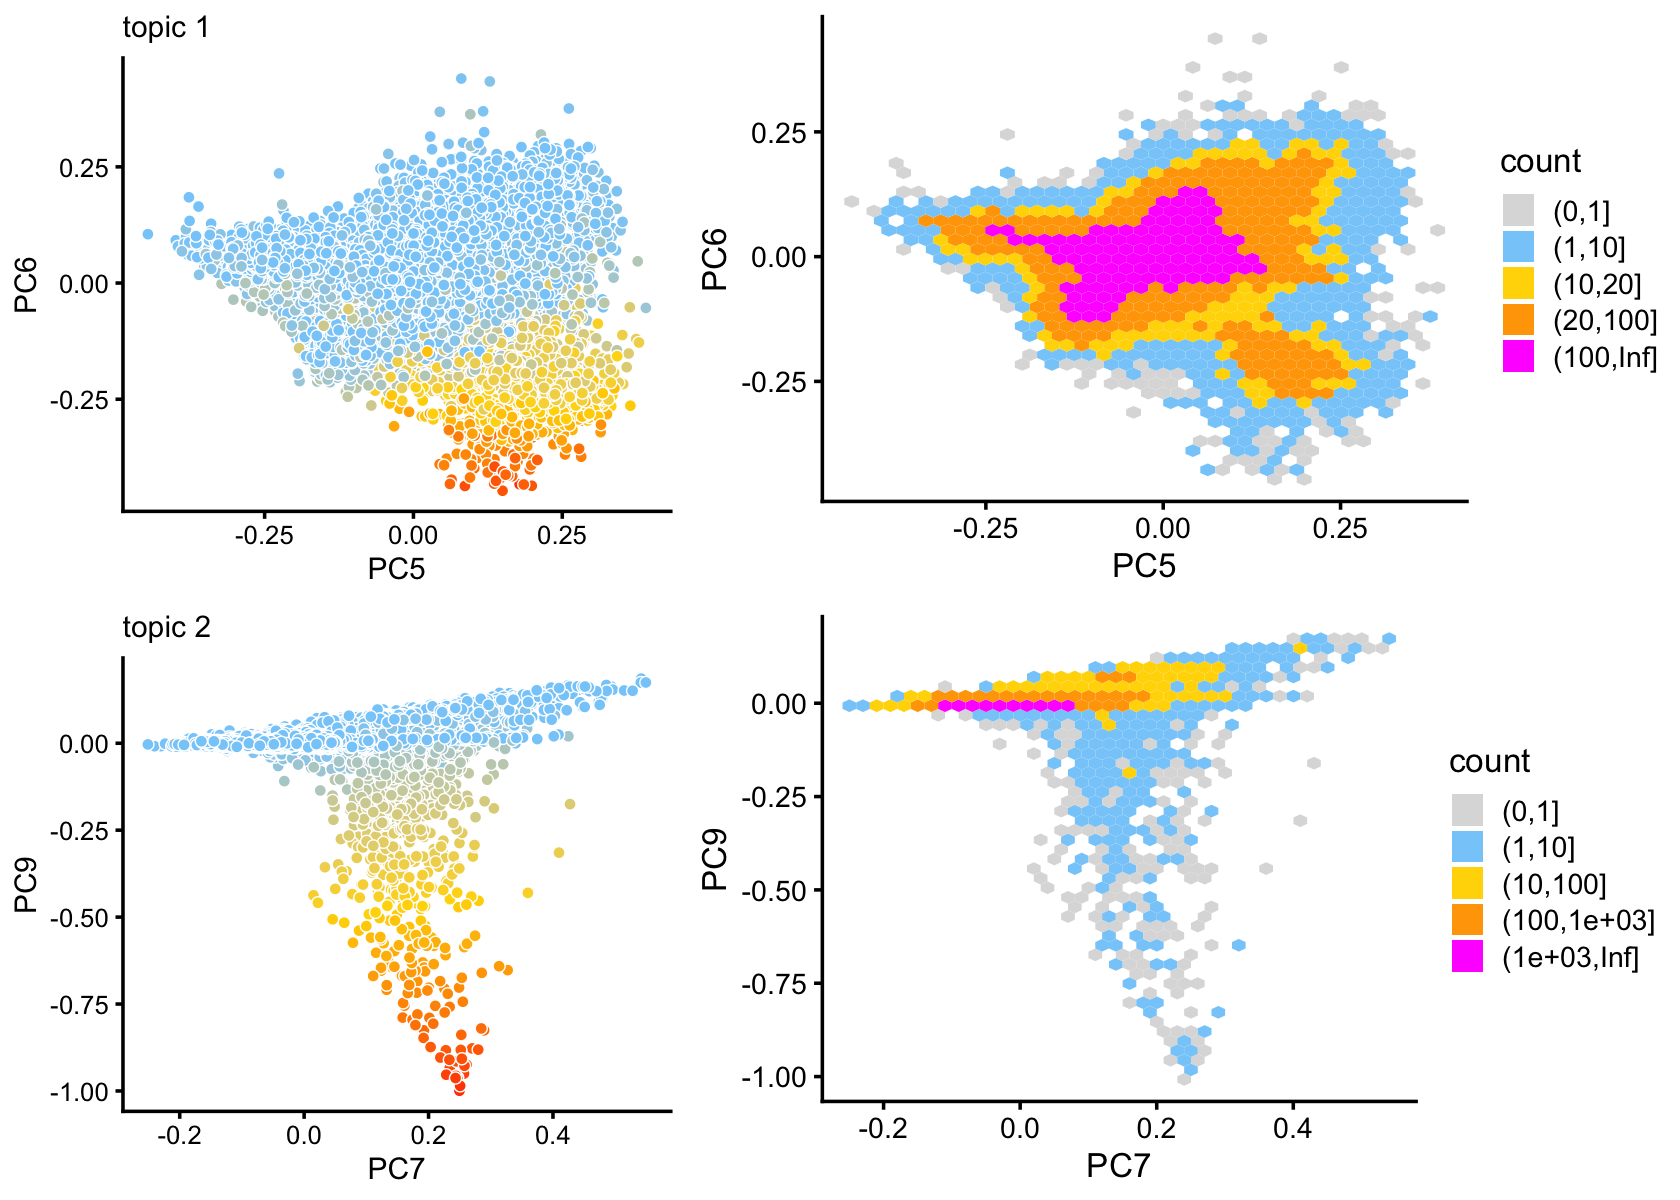
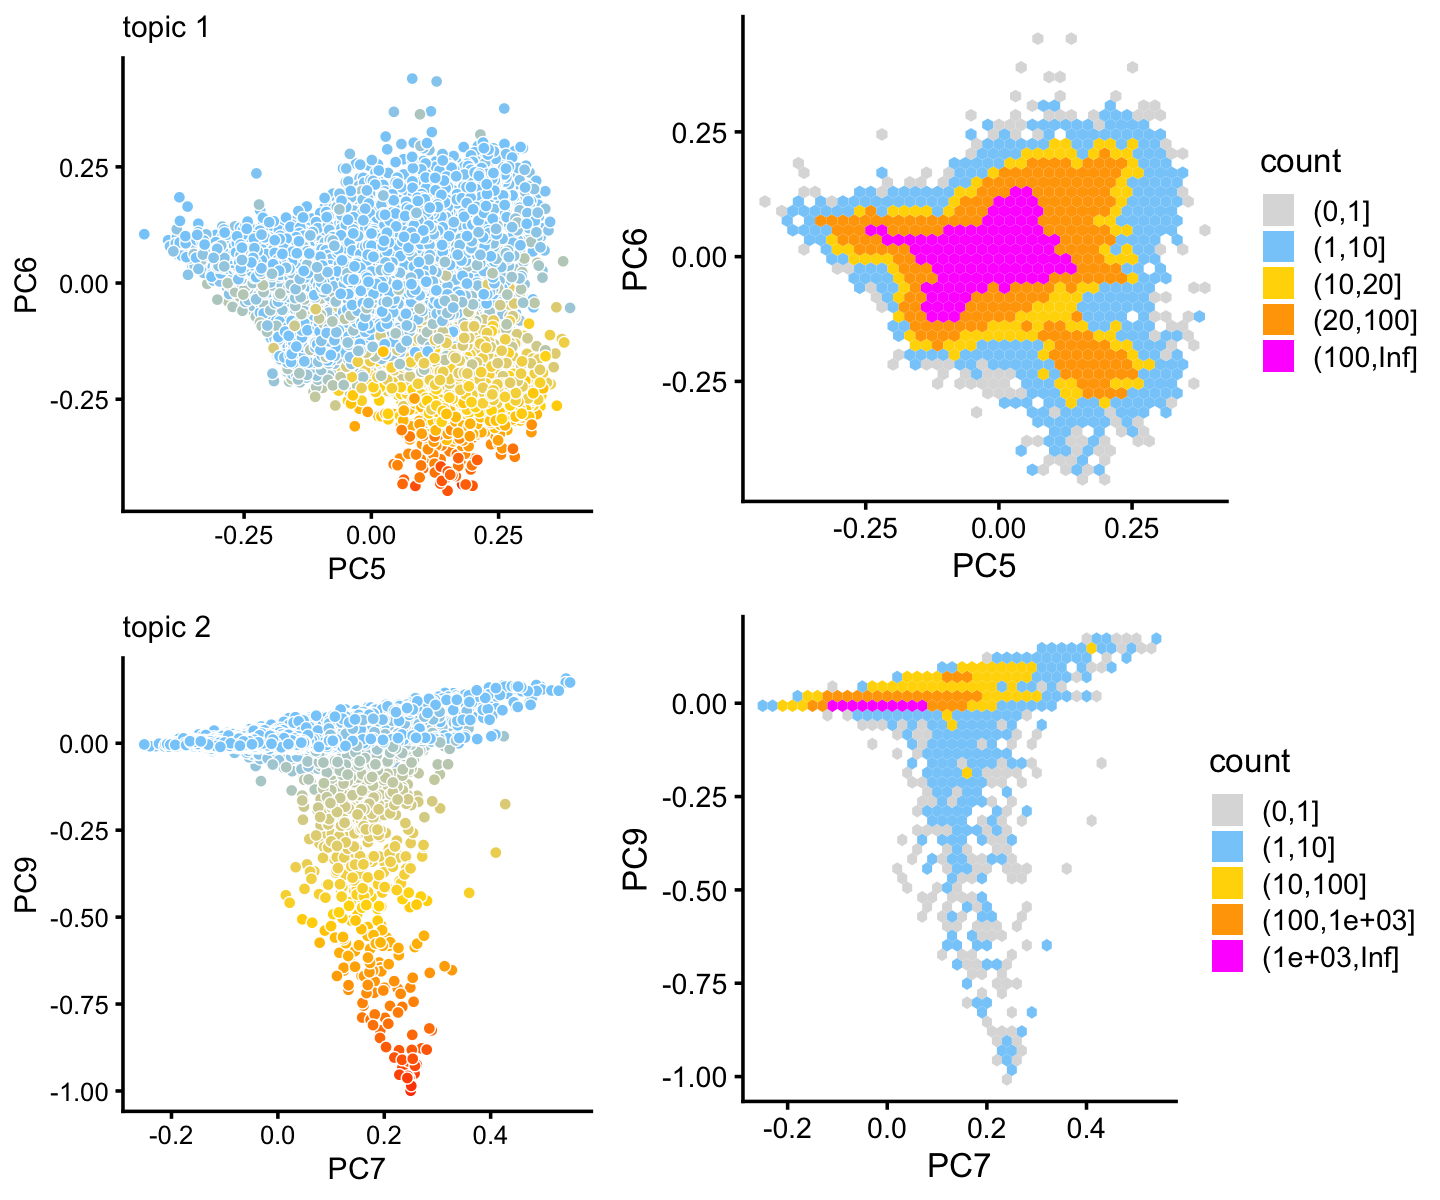
Made some minor improvements to the analysis of the EB pilot data.

diff --git a/docs/eb_pilot_topic_plots.html b/docs/eb_pilot_topic_plots.html
@@ -420,16 +420,16 @@ This reproducible <a href="http://rmarkdown.rstudio.com">R Markdown</a> analysis
 <div class="panel panel-default">
 <div class="panel-heading">
 <p class="panel-title">
-<a data-toggle="collapse" data-parent="#workflowr-checks" href="#strongRepositoryversionstrongahrefhttpsgithubcompcarbopcarbotree05fd2b580edc567f5960215ae66dc7403c783ba9targetblank05fd2b5a"> <span class="glyphicon glyphicon-ok text-success" aria-hidden="true"></span> <strong>Repository version:</strong> <a href="https://github.com/pcarbo/pcarbo/tree/05fd2b580edc567f5960215ae66dc7403c783ba9" target="_blank">05fd2b5</a> </a>
+<a data-toggle="collapse" data-parent="#workflowr-checks" href="#strongRepositoryversionstrongahrefhttpsgithubcompcarbopcarbotreea94b3cdf734ac1ab3fb8b5f0bb81312f91a90504targetblanka94b3cda"> <span class="glyphicon glyphicon-ok text-success" aria-hidden="true"></span> <strong>Repository version:</strong> <a href="https://github.com/pcarbo/pcarbo/tree/a94b3cdf734ac1ab3fb8b5f0bb81312f91a90504" target="_blank">a94b3cd</a> </a>
 </p>
 </div>
[2 lines of base64/hex data omitted]
 <div class="panel-body">
 <p>
 Great! You are using Git for version control. Tracking code development and connecting the code version to the results is critical for reproducibility.
 </p>
 <p>
-The results in this page were generated with repository version <a href="https://github.com/pcarbo/pcarbo/tree/05fd2b580edc567f5960215ae66dc7403c783ba9" target="_blank">05fd2b5</a>. See the <em>Past versions</em> tab to see a history of the changes made to the R Markdown and HTML files.
+The results in this page were generated with repository version <a href="https://github.com/pcarbo/pcarbo/tree/a94b3cdf734ac1ab3fb8b5f0bb81312f91a90504" target="_blank">a94b3cd</a>. See the <em>Past versions</em> tab to see a history of the changes made to the R Markdown and HTML files.
 </p>
 <p>
 Note that you need to be careful to ensure that all relevant files for the analysis have been committed to Git prior to generating the results (you can use <code>wflow_publish</code> or <code>wflow_git_commit</code>). workflowr only checks the R Markdown file, but you know if there are other scripts or data files that it depends on. Below is the status of the Git repository when the results were generated:
@@ -735,6 +735,40 @@ Message
 Rmd
 </td>
 <td>
+<a href="https://github.com/pcarbo/pcarbo/blob/a94b3cdf734ac1ab3fb8b5f0bb81312f91a90504/analysis/eb_pilot_topic_plots.Rmd" target="_blank">a94b3cd</a>
+</td>
+<td>
+Peter Carbonetto
+</td>
+<td>
+2020-09-02
+</td>
+<td>
+workflowr::wflow_publish(“eb_pilot_topic_plots.Rmd”)
+</td>
+</tr>
+<tr>
+<td>
+html
+</td>
+<td>
+<a href="https://rawcdn.githack.com/pcarbo/pcarbo/cd7743939eb945396fabcb02251ae6973e95603e/docs/eb_pilot_topic_plots.html" target="_blank">cd77439</a>
+</td>
+<td>
+Peter Carbonetto
+</td>
+<td>
+2020-09-02
+</td>
+<td>
+Added more PCA plots and subclustering to analysis of EB pilot data.
+</td>
+</tr>
+<tr>
+<td>
+Rmd
+</td>
+<td>
 <a href="https://github.com/pcarbo/pcarbo/blob/05fd2b580edc567f5960215ae66dc7403c783ba9/analysis/eb_pilot_topic_plots.Rmd" target="_blank">05fd2b5</a>
 </td>
 <td>
@@ -884,7 +918,7 @@ pca &lt;- prcomp(fit$L)$x</code></pre>
 <pre class="r"><code>p1 &lt;- pca_plot(fit,pcs = c(&quot;PC1&quot;,&quot;PC2&quot;),k = 4) + guides(fill = &quot;none&quot;)
 p2 &lt;- pca_plot(fit,pcs = c(&quot;PC1&quot;,&quot;PC2&quot;),k = 6) + guides(fill = &quot;none&quot;)
 p3 &lt;- pca_hex_plot(fit,pcs = c(&quot;PC1&quot;,&quot;PC2&quot;),bins = c(0,1,10,50,100,Inf))
-plot_grid(p1,p2,p3,nrow = 1,rel_widths = c(2,2,3))</code></pre>
+plot_grid(p1,p2,p3,nrow = 1,rel_widths = c(8,8,11))</code></pre>
 <p><img src="figure/eb_pilot_topic_plots.Rmd/pca-plot-1-1.png" width="960" style="display: block; margin: auto;" /></p>
 <p>
 <button type="button" class="btn btn-default btn-xs btn-workflowr btn-workflowr-fig" data-toggle="collapse" data-target="#fig-pca-plot-1-1">
@@ -910,6 +944,17 @@ Date
 <tbody>
 <tr>
 <td>
+<a href="https://github.com/pcarbo/pcarbo/blob/cd7743939eb945396fabcb02251ae6973e95603e/docs/figure/eb_pilot_topic_plots.Rmd/pca-plot-1-1.png" target="_blank">cd77439</a>
+</td>
+<td>
+Peter Carbonetto
+</td>
+<td>
+2020-09-02
+</td>
+</tr>
+<tr>
+<td>
 <a href="https://github.com/pcarbo/pcarbo/blob/1d0179612a294d9d416ed9852f576c8ab77a284f/docs/figure/eb_pilot_topic_plots.Rmd/pca-plot-1-1.png" target="_blank">1d01796</a>
 </td>
 <td>
@@ -931,7 +976,7 @@ x[pc1 &lt; -0.05] &lt;- &quot;A&quot;</code></pre>
 <p>In PCs 3 and 4, we see evidence for an additional—but much smaller—cluster.</p>
 <pre class="r"><code>p4 &lt;- pca_plot(fit,pcs = c(&quot;PC3&quot;,&quot;PC4&quot;),k = 8) + guides(fill = &quot;none&quot;)
 p5 &lt;- pca_hex_plot(fit,pcs = c(&quot;PC3&quot;,&quot;PC4&quot;),bins = c(0,1,5,10,100,Inf))
-plot_grid(p4,p5,nrow = 1,rel_widths = c(2,2.75))</code></pre>
+plot_grid(p4,p5,nrow = 1,rel_widths = c(8,11))</code></pre>
 <p><img src="figure/eb_pilot_topic_plots.Rmd/pca-plot-2-1.png" width="840" style="display: block; margin: auto;" /></p>
 <p>
 <button type="button" class="btn btn-default btn-xs btn-workflowr btn-workflowr-fig" data-toggle="collapse" data-target="#fig-pca-plot-2-1">
@@ -957,6 +1002,17 @@ Date
 <tbody>
 <tr>
 <td>
+<a href="https://github.com/pcarbo/pcarbo/blob/cd7743939eb945396fabcb02251ae6973e95603e/docs/figure/eb_pilot_topic_plots.Rmd/pca-plot-2-1.png" target="_blank">cd77439</a>
+</td>
+<td>
+Peter Carbonetto
+</td>
+<td>
+2020-09-02
+</td>
+</tr>
+<tr>
+<td>
 <a href="https://github.com/pcarbo/pcarbo/blob/1d0179612a294d9d416ed9852f576c8ab77a284f/docs/figure/eb_pilot_topic_plots.Rmd/pca-plot-2-1.png" target="_blank">1d01796</a>
 </td>
 <td>
@@ -973,13 +1029,13 @@ Peter Carbonetto
 <pre class="r"><code>pc3 &lt;- pca[,&quot;PC3&quot;]
 pc4 &lt;- pca[,&quot;PC4&quot;]
 x[pc3 &gt; 2*pc4 + 0.58] &lt;- &quot;C&quot;</code></pre>
-<p>Additional clusters are evident in the projection onto other PCs.</p>
+<p>Additional clusters are apparent in the projection onto other PCs.</p>
 <pre class="r"><code>p6 &lt;- pca_plot(fit,pcs = c(&quot;PC5&quot;,&quot;PC6&quot;),k = 1) + guides(fill = &quot;none&quot;)
 p7 &lt;- pca_hex_plot(fit,pcs = c(&quot;PC5&quot;,&quot;PC6&quot;),bins = c(0,1,10,20,100,Inf))
 p8 &lt;- pca_plot(fit,pcs = c(&quot;PC7&quot;,&quot;PC9&quot;),k = 2) + guides(fill = &quot;none&quot;)
 p9 &lt;- pca_hex_plot(fit,pcs = c(&quot;PC7&quot;,&quot;PC9&quot;))
-plot_grid(p6,p7,p8,p9,nrow = 2,rel_widths = c(2,2.9))</code></pre>
-<p><img src="figure/eb_pilot_topic_plots.Rmd/pca-plot-3-1.png" width="840" style="display: block; margin: auto;" /></p>
+plot_grid(p6,p7,p8,p9,nrow = 2,rel_widths = c(2,2.75))</code></pre>
+<p><img src="figure/eb_pilot_topic_plots.Rmd/pca-plot-3-1.png" width="720" style="display: block; margin: auto;" /></p>
 <p>
 <button type="button" class="btn btn-default btn-xs btn-workflowr btn-workflowr-fig" data-toggle="collapse" data-target="#fig-pca-plot-3-1">
 Past versions of pca-plot-3-1.png
@@ -1002,6 +1058,17 @@ Date
 </tr>
 </thead>
 <tbody>
+<tr>
+<td>
+<a href="https://github.com/pcarbo/pcarbo/blob/cd7743939eb945396fabcb02251ae6973e95603e/docs/figure/eb_pilot_topic_plots.Rmd/pca-plot-3-1.png" target="_blank">cd77439</a>
+</td>
+<td>
+Peter Carbonetto
+</td>
+<td>
+2020-09-02
+</td>
+</tr>
 <tr>
 <td>
 <a href="https://github.com/pcarbo/pcarbo/blob/1d0179612a294d9d416ed9852f576c8ab77a284f/docs/figure/eb_pilot_topic_plots.Rmd/pca-plot-3-1.png" target="_blank">1d01796</a>
@@ -1029,8 +1096,56 @@ y[pc3 &gt; 0.2] &lt;- &quot;B2&quot;
 x[rows] &lt;- y
 p10 &lt;- pca_plot(fit2,pcs = c(&quot;PC5&quot;,&quot;PC6&quot;),k = c(1,2,8))
 print(p10)</code></pre>
-<p><img src="figure/eb_pilot_topic_plots.Rmd/clustering-2-1.png" width="840" style="display: block; margin: auto;" /></p>
-<p>For example, we can define a cluster, labeled “B1”, that corresponds closely to topic 2. The substructure here does not suggest clusters that are as distinct as what we saw above, but because topic 2 is picking up a very small subset of cells, it may be useful to define a cluster so we can analyze it separately.</p>
+<p><img src="figure/eb_pilot_topic_plots.Rmd/pca-plot-4-1.png" width="600" style="display: block; margin: auto;" /></p>
+<p>
+<button type="button" class="btn btn-default btn-xs btn-workflowr btn-workflowr-fig" data-toggle="collapse" data-target="#fig-pca-plot-4-1">
+Past versions of pca-plot-4-1.png
+</button>
+</p>
+<div id="fig-pca-plot-4-1" class="collapse">
+<div class="table-responsive">
+<table class="table table-condensed table-hover">
+<thead>
+<tr>
+<th>
+Version
+</th>
+<th>
+Author
+</th>
+<th>
+Date
+</th>
+</tr>
+</thead>
+<tbody>
+<tr>
+<td>
+<a href="https://github.com/pcarbo/pcarbo/blob/cd7743939eb945396fabcb02251ae6973e95603e/docs/figure/eb_pilot_topic_plots.Rmd/pca-plot-4-1.png" target="_blank">cd77439</a>
+</td>
+<td>
+Peter Carbonetto
+</td>
+<td>
+2020-09-02
+</td>
+</tr>
+<tr>
+<td>
+<a href="https://github.com/pcarbo/pcarbo/blob/1d0179612a294d9d416ed9852f576c8ab77a284f/docs/figure/eb_pilot_topic_plots.Rmd/pca-plot-4-1.png" target="_blank">1d01796</a>
+</td>
+<td>
+Peter Carbonetto
+</td>
+<td>
+2020-09-01
+</td>
+</tr>
+</tbody>
+</table>
+</div>
+</div>
+<p>For example, we can define a subcluster, labeled “B1”, that corresponds closely to topic 2. This substructure does not suggest clusters that are as distinct as what we saw above, but because topic 2 is picking up a very small subset of cells, it may be useful to define (somewhat arbitrarily) a cluster so we can analyze it separately.</p>
 <pre class="r"><code>clusters &lt;- factor(x)
 table(clusters)
 # clusters
@@ -1070,6 +1185,17 @@ Date
 <tbody>
 <tr>
 <td>
+<a href="https://github.com/pcarbo/pcarbo/blob/cd7743939eb945396fabcb02251ae6973e95603e/docs/figure/eb_pilot_topic_plots.Rmd/structure-plot-1.png" target="_blank">cd77439</a>
+</td>
+<td>
+Peter Carbonetto
+</td>
+<td>
+2020-09-02
+</td>
+</tr>
+<tr>
+<td>
 <a href="https://github.com/pcarbo/pcarbo/blob/1d0179612a294d9d416ed9852f576c8ab77a284f/docs/figure/eb_pilot_topic_plots.Rmd/structure-plot-1.png" target="_blank">1d01796</a>
 </td>
 <td>
@@ -1083,6 +1209,7 @@ Peter Carbonetto
 </table>
 </div>
 </div>
+<p>Note that I subsampled the larger subsets so that we can better view the topics in the smaller subsets.</p>
 <br>
 <p>
 <button type="button" class="btn btn-default btn-workflowr btn-workflowr-sessioninfo" data-toggle="collapse" data-target="#workflowr-sessioninfo" style="display: block;">
